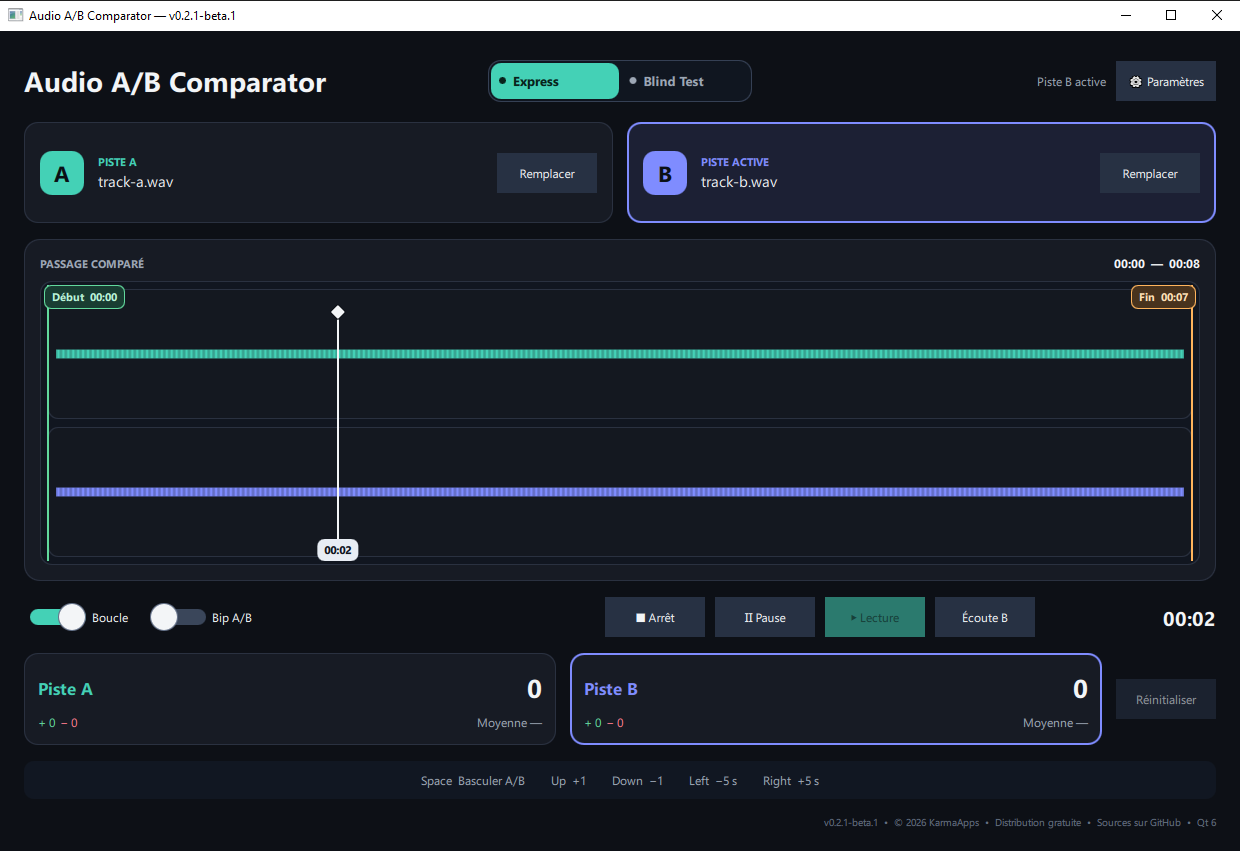
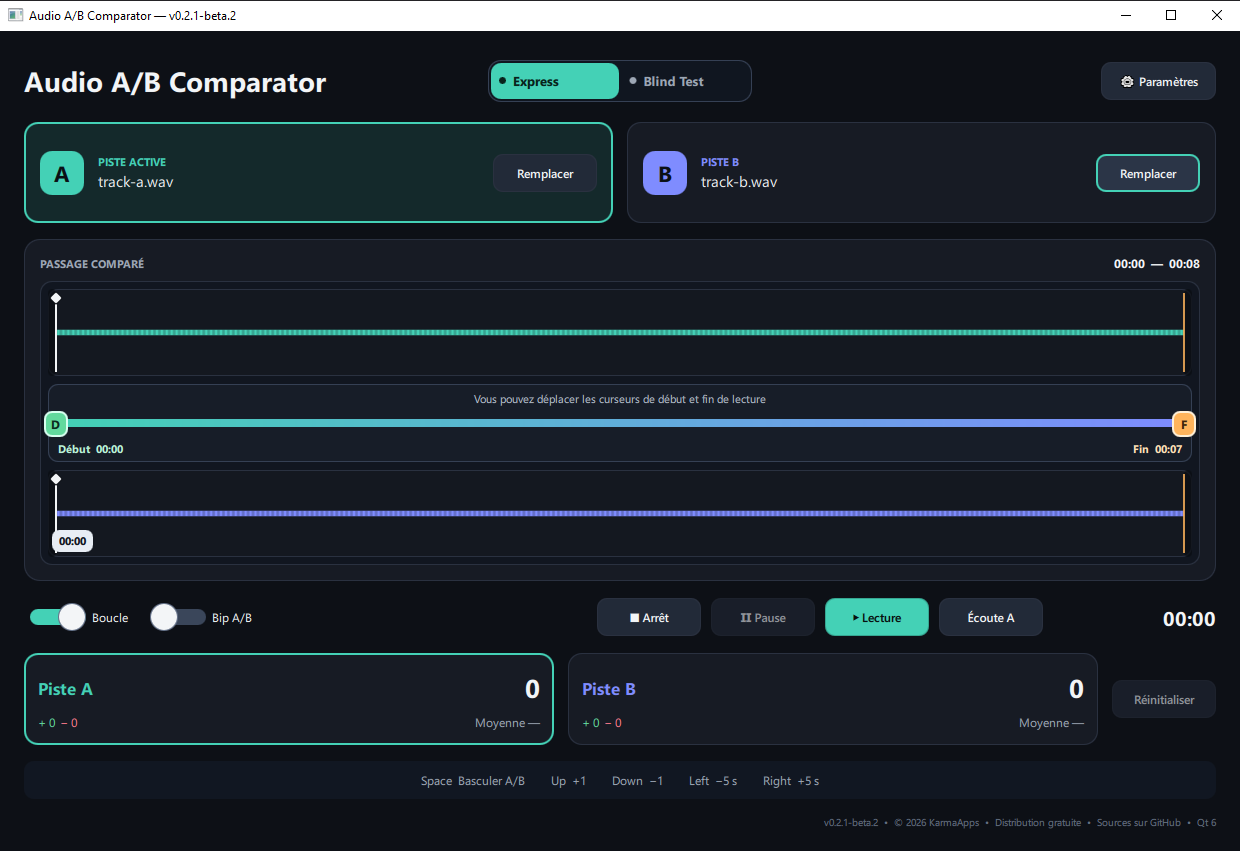
Release Audio A/B Comparator 0.2.1-beta.2 (SVN r892)

diff --git a/docs/validation_windows.md b/docs/validation_windows.md
@@ -1,53 +1,59 @@
-# Validation Windows de la version 0.2.1-beta.1
+# Validation Windows de la version 0.2.1-beta.2
 
-**Date :** 20 août 2026  
+**Date :** 21 août 2026  
 **Plateformes annoncées :** Windows 10 et Windows 11 x64  
 **Chaîne de publication :** MSVC 2022, CMake/Ninja, Qt 6.9.3 et FFmpeg 7.1.1 fourni par Qt
 
 ## Windows 10 x64 — build de publication
 
-La recette finale a été exécutée dans une VM Windows 10 Professionnel 22H2 x64 (`10.0.19045`) avec une session RDP et un périphérique Remote Audio :
+La recette finale a été exécutée dans une VM Windows 10 Professionnel 22H2 x64 (`10.0.19045`), dans une session RDP interactive avec sortie Remote Audio :
 
 - configuration CMake Release avec MSVC 19.44 : réussie ;
-- reconstruction propre Ninja (`--clean-first`) : réussie ;
+- reconstruction propre Ninja : réussie ;
 - CTest avec Qt 6.9.3 : 1 cible, 14 scénarios réussis, aucun échec ni scénario ignoré ;
 - smoke test QML hors écran de `ab-compare.exe` : code de sortie 0 ;
 - installation CMake et `windeployqt` : réussis ;
 - déploiement app-local des DLL Microsoft VC143 : réussi ;
 - création du ZIP et de `SHA256SUMS` : réussie.
 
-Les scénarios automatisés couvrent notamment les raccourcis distincts et leur refus de conflit, le thème persistant, les scores, le Blind Test aléatoire contraint, le bip PCM et son volume, la timeline commune, les déplacements, la lecture réelle sur la sortie Windows, pause/arrêt/reprise et absence de reprise après arrêt.
+Les scénarios automatisés couvrent les raccourcis, les scores, la sélection aléatoire contrainte, le bip PCM, la timeline commune, les déplacements, la lecture réelle, la pause et l’arrêt. Ils vérifient aussi que `Recommencer` réinitialise les compteurs du Blind Test, sélectionne une piste et relance la lecture.
 
-Une recette de formats externe a généré deux tonalités stéréo de huit secondes en WAV, FLAC et MP3. Pour chacune des trois paires, Qt Multimedia/FFmpeg a décodé A puis B, rendu le moteur prêt, démarré la lecture, fait avancer la position, activé la boucle, basculé A/B et mené un Blind Test jusqu'à la révélation.
+La recette externe a chargé des paires WAV, FLAC et MP3, démarré la lecture, activé la boucle, basculé A/B et mené un Blind Test. Les 14 scénarios sont passés avec zéro test ignoré.
 
-Une automatisation UI sur le binaire déployé a ensuite :
+Une automatisation UI sur le binaire portable empaqueté a ensuite :
 
 - chargé les deux WAV par les dialogues natifs Windows ;
-- affiché les deux formes d'onde et la sélection commune ;
-- lancé la lecture puis basculé vers B ;
-- démarré une session Blind Test sans exposer la piste active ;
-- capturé les trois états réels utilisés dans le README et le GIF public.
+- affiché les deux formes d’onde, leur tête de lecture et la ligne Début/Fin indépendante ;
+- confirmé les zones hors sélection et les nouveaux boutons ;
+- lancé le Blind Test et confirmé la disparition des boutons de remplacement ;
+- produit la capture et le GIF réels utilisés dans le README public.
 
 ## Windows 11 x64
 
-Le build 0.2.0 immédiatement antérieur, fondé sur la même API audio et la même chaîne Qt 6.9.3/MSVC 2022, avait réussi sous Windows 11 x64 : compilation, CTest, chargement QML, installation et déploiement Qt. La 0.2.1-beta.1 ne change pas l'API applicative ni le moteur audio ; elle change la version visible, les tests de parcours séquentiel, la documentation, les licences et le packaging public.
+La chaîne Qt 6.9.3/MSVC 2022 et l’API audio de cette série ont déjà été validées sous Windows 11 x64. La bêta 2 conserve le même format binaire, les mêmes dépendances et le même backend audio ; ses changements portent sur l’interface et l’orchestration du redémarrage d’une session aveugle.
 
-La compatibilité annoncée couvre donc Windows 10 et Windows 11 x64. Une nouvelle validation Windows 11 complète sera requise si le moteur audio, Qt, FFmpeg, MSVC ou le contenu du bundle change.
+La compatibilité annoncée reste donc Windows 10 et Windows 11 x64. La recette complète de cette bêta a été rejouée sous Windows 10 ; elle n’a pas été rejouée sur une seconde machine Windows 11.
 
 ## Contrôle du paquet
 
[1 lines of base64/hex data omitted]
+Le ZIP final est `AudioABComparator-0.2.1-beta.2-windows-x86_64.zip` :
 
-- `ab-compare.exe` à la racine du dossier versionné ;
+```text
+SHA-256 : 502d7eec604c0bde39efdf9546892ed94cf7fda7f4103b6df8d038f9d664db2f
+Taille  : 54 115 492 octets
+```
+
+Les contrôles indépendants ont confirmé :
+
+- intégrité ZIP sans erreur et empreinte recalculée identique à `SHA256SUMS` ;
+- `ab-compare.exe` x86-64 à la racine du dossier versionné ;
 - `README.txt`, `LICENSE`, `THIRD_PARTY_NOTICES.md` et `licenses/` présents ;
-- DLL Qt 6.9.3, FFmpeg 7.1.1, VC143 et plugins `platforms/`, `multimedia/`, `qml/` présents ;
-- aucun PDB, build, cache, chemin de poste ou secret ;
-- aucun `vc_redist.x64.exe` ou installeur ;
-- empreinte recalculée identique à `SHA256SUMS` ;
-- lancement portable sans dépendre de la chaîne de compilation.
+- DLL Qt 6.9.3, FFmpeg 7.1.1, VC143 et plugins `platforms/`, `multimedia/` et `qml/` présents ;
+- aucun PDB, objet, bibliothèque de build, archive imbriquée, chemin de poste ou secret ;
+- lancement réel depuis le dossier portable produit.
 
 ## Limites de la validation
 
-L'automatisation prouve le décodage, l'alimentation de la sortie Windows, l'avancement, les états UI et les transitions fonctionnelles. Elle ne remplace pas une écoute humaine pour juger l'absence absolue de clic, le niveau subjectif du bip ou l'ergonomie sur tous les écrans. Ces points restent à surveiller pendant la bêta par Issues GitHub.
+L’automatisation prouve le décodage, l’alimentation de la sortie Windows, l’avancement, les états UI et les transitions fonctionnelles. Elle ne remplace pas une écoute humaine exhaustive pour juger l’absence absolue de clic ou l’ergonomie sur tous les écrans.
 
-Le paquet n'est pas signé Authenticode. SmartScreen peut avertir pour un exécutable récent sans réputation ; l'utilisateur doit vérifier la provenance GitHub et l'empreinte SHA-256.
+Le paquet n’est pas signé Authenticode. SmartScreen peut avertir pour un exécutable récent sans réputation ; l’utilisateur doit vérifier la provenance GitHub et l’empreinte SHA-256.

diff --git a/docs/release_notes_v0.2.1-beta.2.md b/docs/release_notes_v0.2.1-beta.2.md
@@ -1,0 +1,39 @@
+# Audio A/B Comparator 0.2.1-beta.2
+
+This beta refreshes the interface and makes its two core workflows clearer while preserving the local, telemetry-free audio engine.
+
+## What’s new
+
+- modern rounded buttons with clearer hover, pressed and focus states;
+- a dedicated start/end control row between the two waveforms, with the excluded portions still shaded on both waveforms;
+- waveform dragging remains dedicated to moving the playhead;
+- a clear message when Blind Test is requested before both tracks are ready;
+- track replacement is hidden during Blind Test;
+- after revealing results, a single `Recommencer` action resets the scores, randomly selects a track and immediately resumes playback.
+
+## Windows download
+
+The portable ZIP supports **Windows 10 and Windows 11 x64**. Verify it with the attached `SHA256SUMS`, extract the complete folder and run `ab-compare.exe`. No installer or administrator rights are required.
+
+This beta is unsigned. Microsoft Defender SmartScreen may warn about a new executable with no established reputation. Verify that the download comes from this official Release and that its SHA-256 checksum matches before choosing to run it.
+
+Known beta limits: no signed installer, no AppImage yet, no macOS build, and no guarantee that every codec variant supported by FFmpeg has been exercised. Please report reproducible problems through [GitHub Issues](https://github.com/KarmaGame33/AudioABComparator/issues).
+
+---
+
+Cette bêta modernise l’interface et clarifie ses deux parcours principaux, sans modifier le fonctionnement local et sans télémétrie du moteur audio.
+
+## Nouveautés
+
+- boutons modernes et arrondis avec des états de survol, pression et focus plus lisibles ;
+- ligne indépendante entre les formes d’onde pour régler le début et la fin, avec maintien des zones grisées hors sélection sur les deux formes d’onde ;
+- déplacement de la tête de lecture toujours effectué directement sur les formes d’onde ;
+- message explicite si le Blind Test est demandé avant que les deux pistes soient prêtes ;
+- remplacement des pistes masqué pendant le Blind Test ;
+- après révélation, une seule action `Recommencer` remet les scores à zéro, tire une piste au hasard et relance immédiatement la lecture.
+
+Le ZIP portable prend en charge **Windows 10 et Windows 11 x64**. Vérifiez-le avec `SHA256SUMS`, extrayez le dossier complet, puis lancez `ab-compare.exe`. Aucun installeur ni droit administrateur n’est nécessaire.
+
+Cette bêta n’est pas signée : Microsoft Defender SmartScreen peut signaler un exécutable récent sans réputation établie. Vérifiez la provenance GitHub et l’empreinte SHA-256 avant de l’exécuter.
+
+Limites connues : pas d’installeur signé, pas encore d’AppImage, pas de build macOS et couverture non exhaustive de toutes les variantes de codecs. Signalez les problèmes reproductibles dans les [Issues GitHub](https://github.com/KarmaGame33/AudioABComparator/issues).

diff --git a/VERSION_0.2.1-beta.2_SUMMARY.md b/VERSION_0.2.1-beta.2_SUMMARY.md
@@ -1,0 +1,41 @@
+# Résumé de version 0.2.1-beta.2
+
+**Date :** 21 août 2026  
+**Version technique :** 0.2.1  
+**Version affichée et publiée :** 0.2.1-beta.2  
+**Statut :** deuxième préversion publique
+
+## Résultat
+
+Cette préversion améliore la lisibilité de l’interface d’Audio A/B Comparator sans changer ses formats de fichiers, son fonctionnement local ni son absence de télémétrie. Le SVN maître reste canonique et GitHub reste le miroir public officiel.
+
+## Contenu de la version
+
+- nouveau style moderne et arrondi pour les boutons ;
+- suppression de l’indication d’action transitoire près de Paramètres ;
+- message explicite lorsque le Blind Test est demandé sans deux pistes prêtes ;
+- remplacement des pistes masqué pendant le Blind Test ;
+- réglage Début/Fin placé sur une ligne indépendante entre les deux formes d’onde ;
+- zones hors sélection maintenues grisées et déplacement de la tête de lecture conservé sur les formes d’onde ;
+- action `Recommencer` unique après révélation, avec remise à zéro des scores, sélection aléatoire et reprise immédiate de la lecture.
+
+## Validation
+
+La compilation Release, CTest, le smoke test QML, le packaging portable et la recette Windows 10 sont consignés dans `docs/validation_windows.md`. La compatibilité annoncée reste **Windows 10 et Windows 11 x64** avec Qt 6.9.3 et le backend FFmpeg fourni par Qt.
+
+## Artefact Windows
+
+```text
+AudioABComparator-0.2.1-beta.2-windows-x86_64.zip
+SHA-256 : 502d7eec604c0bde39efdf9546892ed94cf7fda7f4103b6df8d038f9d664db2f
+```
+
+Le ZIP contient l’exécutable portable, ses DLL Qt/FFmpeg et VC143, les plugins, QML, le README, la GPL, les notices et les textes LGPL. Il reste distribué uniquement par GitHub Releases.
+
+## Limites
+
+- bêta non signée : SmartScreen peut afficher un avertissement de réputation ;
+- AppImage, macOS, installeur et signature Authenticode restent hors périmètre ;
+- les retours passent uniquement par les Issues GitHub.
+
+La stratégie interne complète reste décrite dans `docs/strategie_diffusion_github.md`, exclu du miroir GitHub.

diff --git a/README.md b/README.md
@@ -10,7 +10,7 @@ Audio A/B Comparator is a portable desktop application by **KarmaApps by KarmaGa
 
 ## Download
 
-Version **0.2.1-beta.1** supports **Windows 10 and Windows 11 x64**. Download the portable ZIP and `SHA256SUMS` from the [GitHub Releases page](https://github.com/KarmaGame33/AudioABComparator/releases). Do not download binaries from the repository source tree.
+Version **0.2.1-beta.2** supports **Windows 10 and Windows 11 x64**. Download the portable ZIP and `SHA256SUMS` from the [GitHub Releases page](https://github.com/KarmaGame33/AudioABComparator/releases). Do not download binaries from the repository source tree.
 
 This beta is unsigned. Windows SmartScreen may display a warning because the executable has no Authenticode signature or established reputation. Verify the SHA-256 checksum, extract the complete ZIP, then run `ab-compare.exe` from the extracted folder.
 
@@ -50,4 +50,4 @@ Audio A/B Comparator is licensed under **GPL-3.0-or-later**. Runtime dependency 
 
 **Audio A/B Comparator — KarmaApps par KarmaGame** est un comparateur audio A/B libre destiné au mixage, au mastering et aux tests d’écoute à l’aveugle. Les fichiers restent sur votre ordinateur : aucun compte, aucun envoi dans le cloud et aucune télémétrie.
 
-La bêta **0.2.1-beta.1** est proposée en ZIP portable pour **Windows 10 et Windows 11 x64** sur la page [GitHub Releases](https://github.com/KarmaGame33/AudioABComparator/releases). Elle n’est pas signée ; vérifiez `SHA256SUMS`, extrayez tout le dossier, puis lancez `ab-compare.exe`. Les retours se font uniquement par les [Issues GitHub](https://github.com/KarmaGame33/AudioABComparator/issues).
+La bêta **0.2.1-beta.2** est proposée en ZIP portable pour **Windows 10 et Windows 11 x64** sur la page [GitHub Releases](https://github.com/KarmaGame33/AudioABComparator/releases). Elle n’est pas signée ; vérifiez `SHA256SUMS`, extrayez tout le dossier, puis lancez `ab-compare.exe`. Les retours se font uniquement par les [Issues GitHub](https://github.com/KarmaGame33/AudioABComparator/issues).

diff --git a/docs/installs.md b/docs/installs.md
@@ -241,7 +241,7 @@ Après un build et des tests réussis :
 Get-Content '.\dist\release\SHA256SUMS'
 ```
 
-Le script crée `AudioABComparator-0.2.1-beta.1-windows-x86_64.zip` et `SHA256SUMS`. Le ZIP contient l'exécutable à sa racine, les DLL/plugins/QML nécessaires, `README.txt`, `LICENSE`, `THIRD_PARTY_NOTICES.md` et les textes LGPL. Il est destiné uniquement aux pièces jointes GitHub Releases et ne doit pas être committé dans Git.
+Le script crée `AudioABComparator-0.2.1-beta.2-windows-x86_64.zip` et `SHA256SUMS`. Le ZIP contient l'exécutable à sa racine, les DLL/plugins/QML nécessaires, `README.txt`, `LICENSE`, `THIRD_PARTY_NOTICES.md` et les textes LGPL. Il est destiné uniquement aux pièces jointes GitHub Releases et ne doit pas être committé dans Git.
 
 ## 5. macOS — procédure préparée mais non validée
 

diff --git a/CHANGELOG.md b/CHANGELOG.md
@@ -2,7 +2,7 @@
 
 All notable changes to Audio A/B Comparator are documented in this file. The project follows Semantic Versioning; prerelease labels identify public beta builds.
 
-## Unreleased
+## [0.2.1-beta.2] - 2026-08-21
 
 ### Added
 
@@ -50,4 +50,5 @@ All notable changes to Audio A/B Comparator are documented in this file. The pro
 
 - playback start, stop and resume behaviour.
 
+[0.2.1-beta.2]: https://github.com/KarmaGame33/AudioABComparator/releases/tag/v0.2.1-beta.2
 [0.2.1-beta.1]: https://github.com/KarmaGame33/AudioABComparator/releases/tag/v0.2.1-beta.1

diff --git a/THIRD_PARTY_NOTICES.md b/THIRD_PARTY_NOTICES.md
@@ -1,6 +1,6 @@
 # Third-party notices
 
-This inventory covers the libraries distributed in the official Windows 10/11 x64 portable build of Audio A/B Comparator 0.2.1-beta.1. The application source itself is licensed under GPL-3.0-or-later.
+This inventory covers the libraries distributed in the official Windows 10/11 x64 portable build of Audio A/B Comparator 0.2.1-beta.2. The application source itself is licensed under GPL-3.0-or-later.
 
 ## Qt 6.9.3
 
